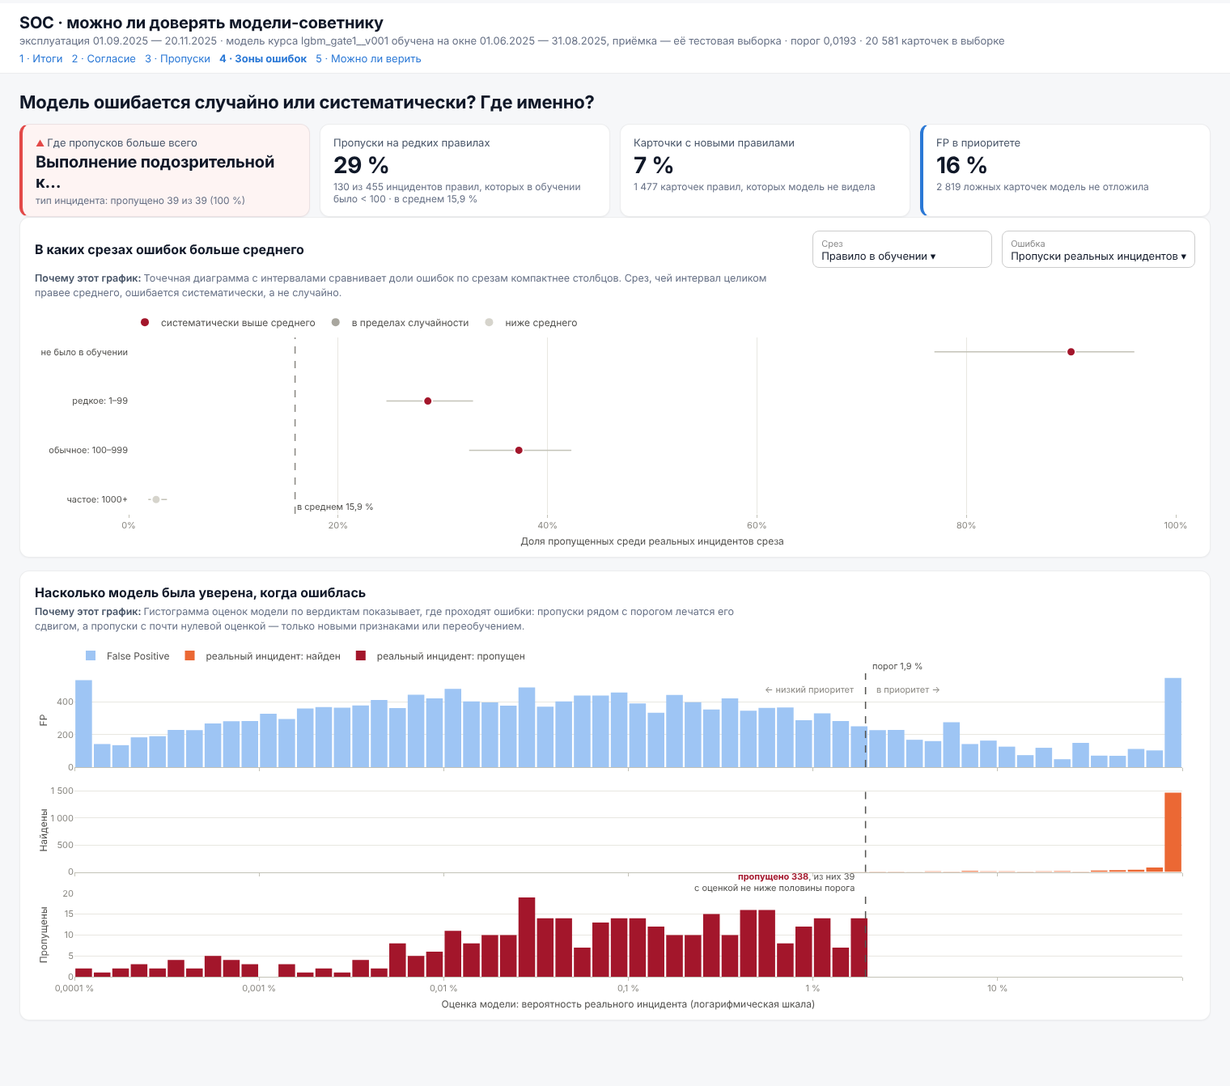
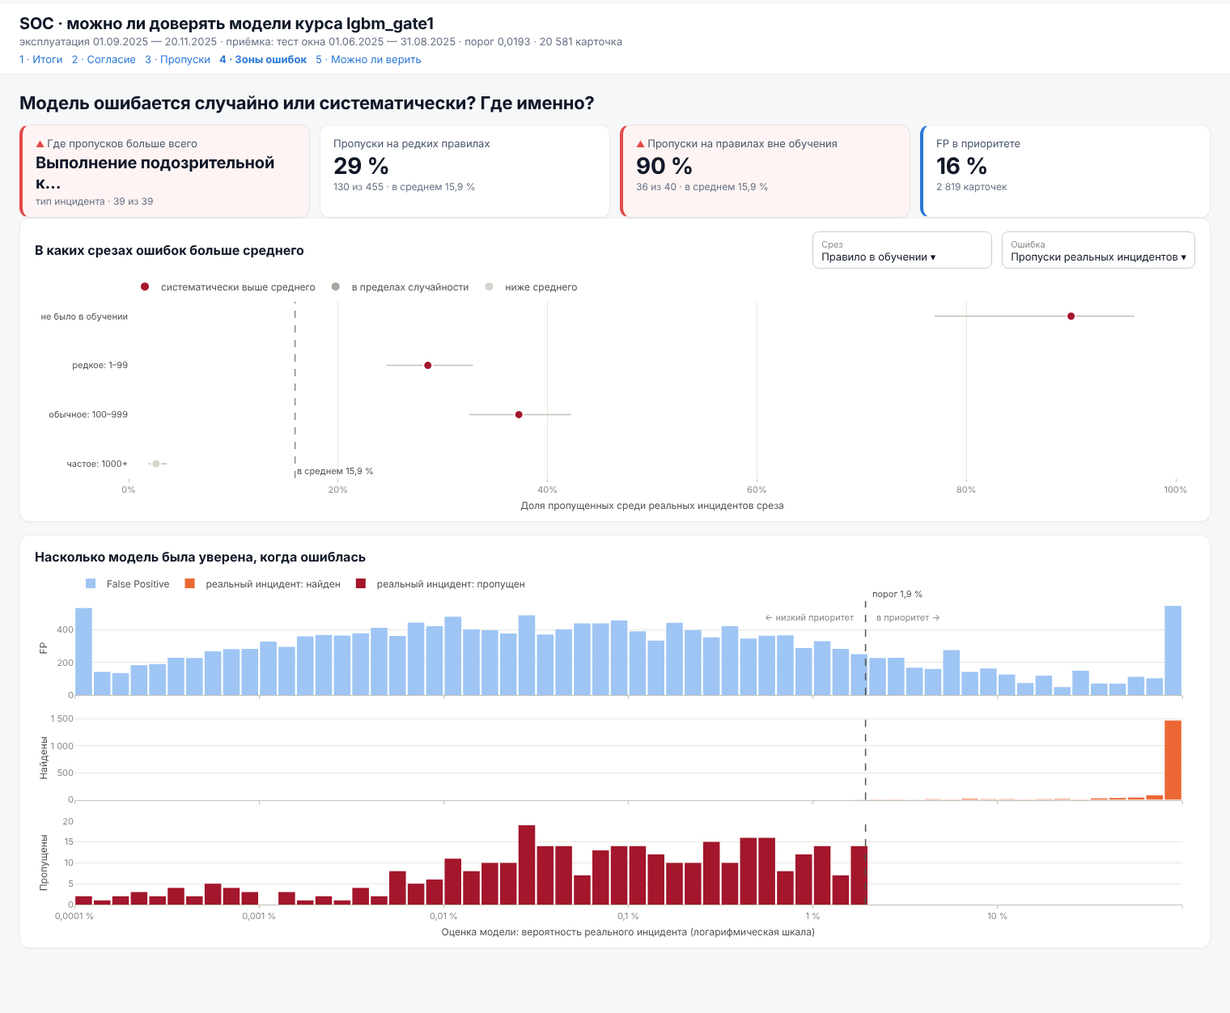
task_2: на листах только KPI и графики (замечание по работе 1)
- убран абзац «Почему этот график» под графиками: обоснования остаются
  в WHY и в таблице REPORT.md
- текстовые подписи на графиках (итоги под Санки, пропуски на гистограмме)
  перенесены в KPI-плитки; подписи плиток — только числовой контекст
- новые плитки: «Инцидентов в верхних 20 % очереди», «Уверенные пропуски»,
  «Пропуски на правилах вне обучения»

diff --git a/task_2/dashboard.css b/task_2/dashboard.css
@@ -116,16 +116,6 @@ body, main {
   letter-spacing: -0.01em;
   color: var(--ink);
 }
-/* ответ «почему выбран этот график» — мелко и приглушённо, чтобы не спорить с данными */
-.card-why {
-  display: block;
-  margin: 4px 0 6px;
-  font-size: 12.5px;
-  line-height: 1.4;
-  color: var(--muted);
-  max-width: 920px;
-}
-.card-why::before { content: "Почему этот график: "; font-weight: 600; color: var(--ink-2); }
 .card-title {
   display: block;
   font-size: 16px;

diff --git a/task_2/dashboard_kpis.py b/task_2/dashboard_kpis.py
@@ -2,7 +2,8 @@
 dashboard_kpis.py — KPI-плитки страниц: подпись, крупное число, строка контекста.
 
 Плитка, на которую стоит обратить внимание, получает класс `kpi-alert` (красная полоса и ▲).
-Пороги сигналов собраны в начале файла. Развёрнутые выводы — в REPORT.md (report.py).
+Пороги сигналов собраны в начале файла. Строка под числом — только короткий числовой контекст
+(«на приёмке …», «N из M»); развёрнутые выводы — в REPORT.md (report.py).
 """
 from __future__ import annotations
 
@@ -15,18 +16,20 @@ DASH = "—"
 LOW_SHARE_DROP = 0.5    # разгрузка очереди упала более чем вдвое против приёмки — сигнал
 AUC_DROP = 0.05         # AUC ниже приёмки больше чем на 0,05 — сигнал
 OVERCONF = 1.5          # модель завышает долю инцидентов в 1,5 раза и больше — сигнал
+CONFIDENT_MISS = 0.5    # больше половины пропусков далеко от порога — сигнал (сдвиг порога не поможет)
+TOP_SHARE = 0.2         # «верх очереди»: доля карточек, которую успевают разобрать первой
 
 TILES = {
-    "results": [("r_n", "Карточек оценено"), ("r_found", "Найдено реальных инцидентов"),
+    "results": [("r_top", "Инцидентов в верхних 20 % очереди"), ("r_found", "Найдено реальных инцидентов"),
                 ("r_miss", "Пропущено реальных инцидентов"), ("r_low", "Очередь разгружена")],
     "agreement": [("a_all", "Общее согласие с аналитиками"), ("a_inc", "Согласие на реальных инцидентах"),
                   ("a_fp", "Согласие на False Positive"), ("a_none", "Без вердикта SOC")],
     "misses": [("m_rate", "Доля пропусков"), ("m_months", "Месяцев хуже приёмки"),
-               ("m_high", "Пропущено высокой критичности"), ("m_near", "Пропуски у самого порога")],
+               ("m_high", "Пропущено высокой критичности"), ("m_near", "Уверенные пропуски")],
     "errors": [("e_worst", "Где пропусков больше всего"), ("e_rare", "Пропуски на редких правилах"),
-               ("e_new", "Карточки с новыми правилами"), ("e_fp", "FP в приоритете")],
+               ("e_new", "Пропуски на правилах вне обучения"), ("e_fp", "FP в приоритете")],
     "trust": [("t_auc", "Качество ранжирования (AUC)"), ("t_cal", "Модель завышает вероятность"),
-              ("t_flow", "Карточки с обогащением"), ("t_worst", "Худший месяц")],
+              ("t_flow", "Обогащение заполнено"), ("t_worst", "Худший месяц")],
 }
 TEXT_TILES = {"e_worst", "t_worst"}
 
@@ -59,17 +62,24 @@ def _short(s, n: int = 30) -> str:
 
 
 # ---------------------------------------------------------------- 1. Итоги
-def results(oper: pd.DataFrame, c: dd.Confusion, cv: dd.Confusion, target_miss: float) -> dict:
+def _top_share(d: pd.DataFrame, share: float = TOP_SHARE) -> float:
+    g = dd.gains(d, points=1001)
+    return float(np.interp(share, g["x"], g["y"])) if len(g) else np.nan
+
+
+def results(oper: pd.DataFrame, c: dd.Confusion, cv: dd.Confusion, target_miss: float,
+            val: pd.DataFrame | None = None) -> dict:
     if c.n == 0:
         return empty("results")
-    out = _tile("r_n", dd.fmt_int(len(oper)), f"с вердиктом SOC: {dd.fmt_int(c.n)} — по ним считаем качество")
-    out |= _tile("r_found", dd.fmt_pct(c.recall), f"{dd.fmt_int(c.tp)} из {dd.fmt_int(c.pos)} попали в приоритет",
+    top, top_v = _top_share(oper), (_top_share(val) if val is not None else np.nan)
+    out = _tile("r_top", dd.fmt_pct(top, 0), f"на приёмке {dd.fmt_pct(top_v, 0)} · без модели 20 %", kind="kpi-real")
+    out |= _tile("r_found", dd.fmt_pct(c.recall), f"{dd.fmt_int(c.tp)} из {dd.fmt_int(c.pos)} · на приёмке {dd.fmt_pct(cv.recall)}",
                  kind="kpi-real")
-    out |= _tile("r_miss", dd.fmt_int(c.fn), f"{dd.fmt_pct(c.miss)} реальных инцидентов · на приёмке {dd.fmt_pct(target_miss)}",
+    out |= _tile("r_miss", dd.fmt_int(c.fn), f"{dd.fmt_pct(c.miss)} · на приёмке {dd.fmt_pct(target_miss)}",
                  alert=dd.wilson(c.fn, c.pos)[0] > target_miss)       # хуже приёмки с учётом случайности
     dropped = cv.n and c.low_share < cv.low_share * LOW_SHARE_DROP
     out |= _tile("r_low", dd.fmt_pct(c.low_share, 0),
-                 f"{dd.fmt_int(c.fn + c.tn)} карточек отложено · на приёмке {dd.fmt_pct(cv.low_share, 0)}",
+                 f"{dd.fmt_int(c.fn + c.tn)} карточек · на приёмке {dd.fmt_pct(cv.low_share, 0)}",
                  alert=bool(dropped))
     return out
 
@@ -77,12 +87,12 @@ def results(oper: pd.DataFrame, c: dd.Confusion, cv: dd.Confusion, target_miss: 
 # ---------------------------------------------------------------- 2. Согласие
 def agreement(oper: pd.DataFrame, c: dd.Confusion, cv: dd.Confusion) -> dict:
     n_none = int((oper["y"] < 0).sum())
-    out = _tile("a_none", dd.fmt_int(n_none), "дубликаты, спам и карточки без вердикта: модель их оценила, сверить не с чем")
+    out = _tile("a_none", dd.fmt_int(n_none), "дубликаты, спам, открытые")
     if c.n == 0:
         return empty("agreement") | out
     ratio = c.neg / c.pos if c.pos else np.nan
     out |= _tile("a_all", dd.fmt_pct(c.agreement),
-                 f"FP в {dd.fmt_num(ratio, 1)} раза больше инцидентов: общая доля скрывает разницу классов" if c.pos else "")
+                 f"FP в {dd.fmt_num(ratio, 1)} раза больше инцидентов" if c.pos else "")
     out |= _tile("a_inc", dd.fmt_pct(c.recall), f"на приёмке {dd.fmt_pct(cv.recall)}", kind="kpi-real")
     out |= _tile("a_fp", dd.fmt_pct(c.specificity), f"на приёмке {dd.fmt_pct(cv.specificity)}",
                  alert=bool(cv.n and c.specificity < cv.specificity * LOW_SHARE_DROP), kind="kpi-fp")
@@ -98,19 +108,20 @@ def misses(oper: pd.DataFrame, c: dd.Confusion, mon_oper: pd.DataFrame, thr: flo
                 alert=lo > target_miss)
     if len(mon_oper):
         bad = mon_oper[mon_oper["miss_lo"] > target_miss]
-        note = ("хуже: " + ", ".join(dd.month_label(m) for m in bad["month"])) if len(bad) else "все месяцы на уровне приёмки"
+        note = (", ".join(dd.month_label(m, short=True) for m in bad["month"])) if len(bad) else "на уровне приёмки"
         out |= _tile("m_months", f"{len(bad)} из {len(mon_oper)}", note, alert=len(bad) > 0)
     else:
         out |= _tile("m_months", DASH)
     miss = oper[(oper["y"] == 1) & ~oper["pred"]]
     high = int(miss["crit"].isin(["Высокая", "Критическая"]).sum())
     out |= _tile("m_high", dd.fmt_int(high),
-                 f"из {dd.fmt_int(len(miss))} {dd.plural(len(miss), ('пропуска', 'пропусков', 'пропусков'))}; "
-                 "остальные — средней и низкой",
+                 f"из {dd.fmt_int(len(miss))} {dd.plural(len(miss), ('пропуска', 'пропусков', 'пропусков'))}",
                  alert=high > 0)
     near, n = dd.near_threshold_share(oper, thr)
-    out |= _tile("m_near", dd.fmt_pct(near / n, 0) if n else DASH,
-                 f"{near} из {n}: оценка не ниже половины порога — их ловит более низкий порог" if n else "пропусков нет")
+    far = n - near                                       # оценка ниже половины порога: сдвиг порога не вернёт
+    out |= _tile("m_near", dd.fmt_pct(far / n, 0) if n else DASH,
+                 f"{far} из {n} · оценка < ½ порога" if n else "пропусков нет",
+                 alert=bool(n and far / n > CONFIDENT_MISS))
     return out
 
 
@@ -133,22 +144,26 @@ def errors(oper: pd.DataFrame, c: dd.Confusion) -> dict:
     if worst:
         by, r = worst
         out = _tile("e_worst", _short(r["seg"], 28),
-                    f"{by.lower()}: пропущено {int(r['fn'])} из {int(r['n'])} ({dd.fmt_pct(r['rate'], 0)})", alert=True)
+                    f"{by[0].lower() + by[1:]} · {int(r['fn'])} из {int(r['n'])}", alert=True)
     else:
-        out = _tile("e_worst", "Нет явных зон", "ни один срез не выходит за случайный разброс")
+        out = _tile("e_worst", "Нет явных зон", "в пределах случайности")
     inc = oper[oper["y"] == 1]
     rare = inc[(inc["rule_train_n"] > 0) & (inc["rule_train_n"] < 100)]
     if len(rare):
         rr = float((~rare["pred"]).mean())
         out |= _tile("e_rare", dd.fmt_pct(rr, 0),
-                     f"{int((~rare['pred']).sum())} из {len(rare)} инцидентов правил, которых в обучении было < 100 · в среднем {dd.fmt_pct(c.miss)}",
+                     f"{int((~rare['pred']).sum())} из {len(rare)} · в среднем {dd.fmt_pct(c.miss)}",
                      alert=rr > 2 * c.miss)
     else:
         out |= _tile("e_rare", DASH, "нет инцидентов редких правил")
-    lab = oper[oper["y"] >= 0]
-    new = float((lab["rule_train_n"] == 0).mean())
-    out |= _tile("e_new", dd.fmt_pct(new, 0), f"{dd.fmt_int((lab['rule_train_n'] == 0).sum())} карточек правил, которых модель не видела")
-    out |= _tile("e_fp", dd.fmt_pct(1 - c.specificity, 0), f"{dd.fmt_int(c.fp)} ложных карточек модель не отложила",
+    unseen = inc[inc["rule_train_n"] == 0]
+    if len(unseen):
+        ru = float((~unseen["pred"]).mean())
+        out |= _tile("e_new", dd.fmt_pct(ru, 0), f"{int((~unseen['pred']).sum())} из {len(unseen)} · в среднем {dd.fmt_pct(c.miss)}",
+                     alert=ru > 2 * c.miss)
+    else:
+        out |= _tile("e_new", DASH, "нет инцидентов новых правил")
+    out |= _tile("e_fp", dd.fmt_pct(1 - c.specificity, 0), f"{dd.fmt_int(c.fp)} карточек",
                  kind="kpi-fp")
     return out
 
@@ -160,23 +175,23 @@ def trust(oper: pd.DataFrame, val: pd.DataFrame, mon_oper: pd.DataFrame, meta: d
         return empty("trust")
     a, av = dd.auc(lab["y"], lab["proba"]), dd.auc(lab_v["y"], lab_v["proba"])
     out = _tile("t_auc", dd.fmt_num(a, 2) if np.isfinite(a) else DASH,
-                f"на приёмке {dd.fmt_num(av, 2)} · 0,5 — как монетка, 1 — идеально" if np.isfinite(av) else "",
+                f"на приёмке {dd.fmt_num(av, 2)}" if np.isfinite(av) else "",
                 alert=bool(np.isfinite(a) and np.isfinite(av) and av - a > AUC_DROP))
     pred, act = float(lab["proba"].mean()), float(lab["y"].mean())
     ratio = pred / act if act else np.nan
     out |= _tile("t_cal", f"×{dd.fmt_num(ratio, 1)}" if np.isfinite(ratio) else DASH,
-                 f"пишет в среднем {dd.fmt_pct(pred)}, реальных инцидентов {dd.fmt_pct(act)}",
+                 f"оценка {dd.fmt_pct(pred)} · факт {dd.fmt_pct(act)}",
                  alert=bool(np.isfinite(ratio) and (ratio >= OVERCONF or ratio <= 1 / OVERCONF)))
     enr = float((lab["has_vendor"] & lab["has_alert"]).mean())
     enr_v = float((lab_v["has_vendor"] & lab_v["has_alert"]).mean()) if len(lab_v) else np.nan
     out |= _tile("t_flow", dd.fmt_pct(enr, 0),
-                 f"заполнены «Вендор» и «Алерт» · на приёмке {dd.fmt_pct(enr_v, 0)}",
+                 f"на приёмке {dd.fmt_pct(enr_v, 0)}",
                  alert=bool(np.isfinite(enr_v) and enr < enr_v * 0.75))
     m = mon_oper.dropna(subset=["auc"])
     if len(m):
         w = m.sort_values("auc").iloc[0]
         out |= _tile("t_worst", dd.month_label(w["month"]).capitalize(),
-                     f"AUC {dd.fmt_num(w['auc'], 2)} · доля инцидентов {dd.fmt_pct(w['inc_rate'])}",
+                     f"AUC {dd.fmt_num(w['auc'], 2)}",
                      alert=w["auc"] < 0.6)
     else:
         out |= _tile("t_worst", DASH)

diff --git a/task_2/report.py b/task_2/report.py
@@ -131,7 +131,8 @@ def build(store: dd.Store, f: dd.Filters | None = None) -> str:
         f"Модель оценила {dd.fmt_int(len(oper))} {pl(len(oper), ('карточку', 'карточки', 'карточек'))}, {dd.fmt_int(c.n)} из них аналитики закрыли вердиктом "
         "«Решён» или «False Positive» — по ним и сверяем.",
         "",
-        f"Отчёт собран скриптом `report.py` {date.today():%d.%m.%Y}. Числа совпадают с плитками дашборда при фильтрах по умолчанию.",
+        f"Отчёт собран скриптом `report.py` {date.today():%d.%m.%Y}. Числа совпадают с плитками дашборда при фильтрах по умолчанию. "
+        "На листах дашборда — только KPI-плитки и графики; выводы и обоснование выбора каждого графика собраны здесь.",
         "",
         "## Коротко для руководителя SOC",
         "",

diff --git a/task_2/README.md b/task_2/README.md
@@ -2,7 +2,7 @@
 
 Дашборд Taipy для руководителя SOC, который не занимается машинным обучением. Модель курса `lgbm_gate1__v001` сортирует карточки инцидентов по вероятности того, что это реальный инцидент. Дашборд отвечает, можно ли ей доверять, и главная метрика в нём — **доля пропущенных реальных инцидентов**.
 
-Каждая страница — один вопрос руководителя. Под заголовком каждого графика написано, почему выбран именно он. Выводы с цифрами лежат в [`REPORT.md`](REPORT.md).
+Каждая страница — один вопрос руководителя. На листах только KPI-плитки и графики: критичные числа упакованы в плитки, а выводы и ответ «почему выбран именно этот график» вынесены в [`REPORT.md`](REPORT.md).
 
 ![Страница «Итоги»](docs/results.png)
 
@@ -33,7 +33,7 @@
 | 4 · Зоны ошибок | Модель ошибается случайно или систематически? | точечная диаграмма срезов с интервалами (переключатели среза и типа ошибки), гистограммы оценок |
 | 5 · Можно ли верить | Можно ли верить оценке и не устарела ли модель? | калибровка, гантели «приёмка → эксплуатация», три панели дрейфа: AUC, обогащение, доля инцидентов |
 
-Почему выбран каждый график и чем он лучше альтернатив, расписано в таблице в конце [`REPORT.md`](REPORT.md).
+Почему выбран каждый график и чем он лучше альтернатив, расписано в таблице в конце [`REPORT.md`](REPORT.md). Тексты обоснований хранятся в `WHY` в `dashboard_charts.py`: отчёт собирается из них, поэтому таблица не расходится с кодом.
 
 **Фильтры** в шапке действуют на все страницы: месяц эксплуатации, организация, критичность и **порог модели**.
 - Порог — это рабочий τ = 0,0193 и два варианта «что если»: «находить 99 % инцидентов приёмки» и 0,5. Модель они не меняют, только решение. На них видно, сколько пропусков и сколько лишней работы даёт каждый вариант. Уровень приёмки на графиках пересчитывается под выбранный порог.

diff --git a/task_2/REPORT.md b/task_2/REPORT.md
@@ -5,7 +5,7 @@
 - **Приёмка** — тестовая выборка того же окна, 3 173 карточки. Наш пересчёт дал TP 390 / FP 107 / FN 24 / TN 2652 — ровно как в карточке модели.
 - **Эксплуатация** — 01.09.2025 — 20.11.2025, карточки после окна обучения. Модель оценила 20 581 карточку, 19 924 из них аналитики закрыли вердиктом «Решён» или «False Positive» — по ним и сверяем.
 
-Отчёт собран скриптом `report.py` 14.11.2026. Числа совпадают с плитками дашборда при фильтрах по умолчанию.
+Отчёт собран скриптом `report.py` 14.11.2026. Числа совпадают с плитками дашборда при фильтрах по умолчанию. На листах дашборда — только KPI-плитки и графики; выводы и обоснование выбора каждого графика собраны здесь.
 
 ## Коротко для руководителя SOC
 
